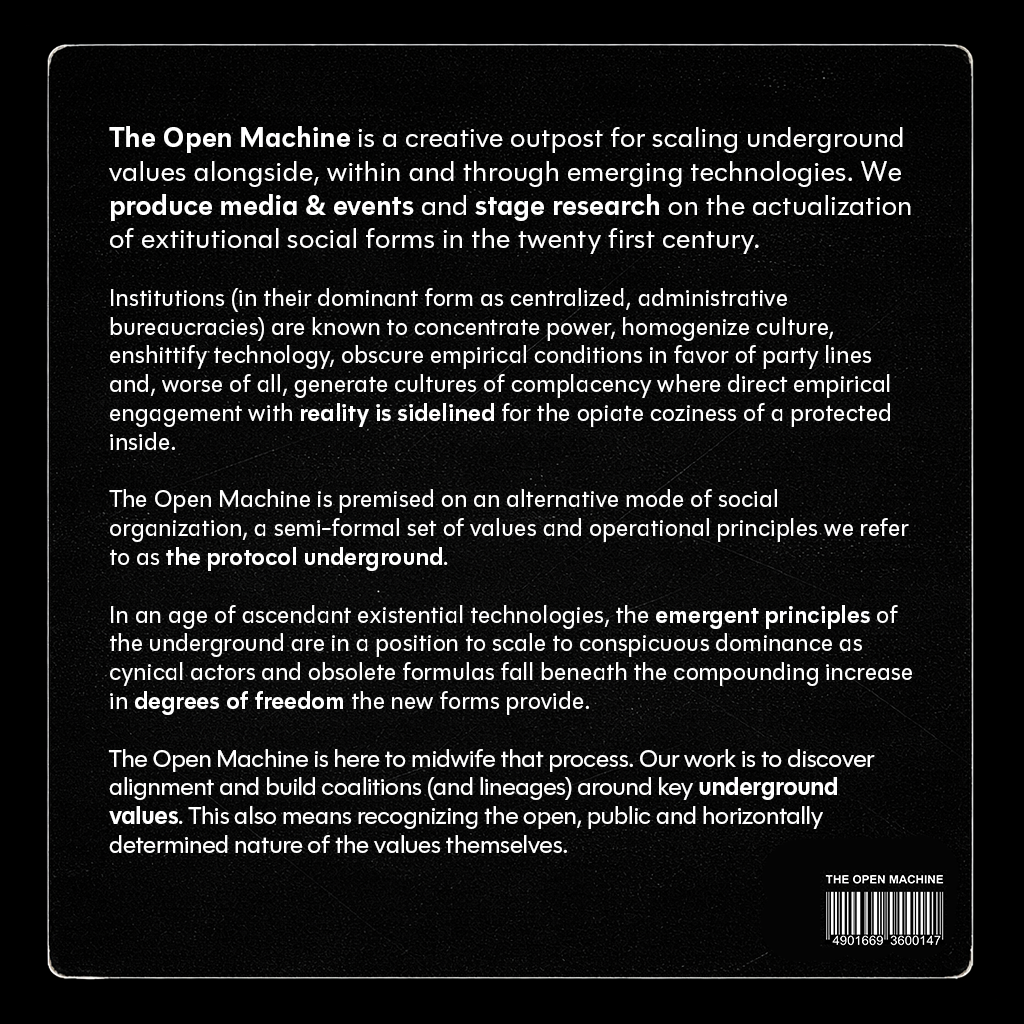
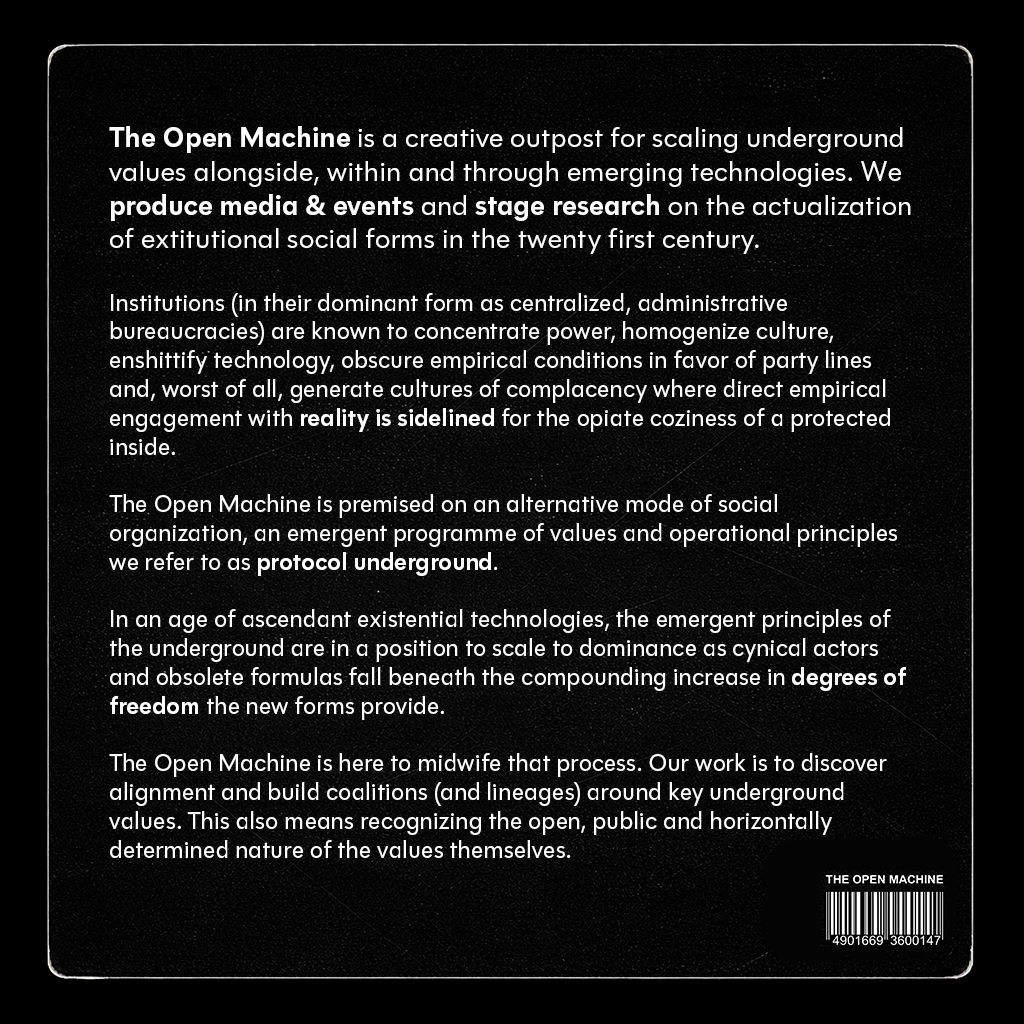
adjust albumBack and clean values

Changed region(s): [[0.0938, 0.2812, 0.875, 0.5625], [0.0938, 0.5938, 0.9062, 0.8438]]

diff --git a/src/pages/index.tsx b/src/pages/index.tsx
@@ -38,7 +38,7 @@ export default function Home() {
           <Heading color="primary" fontWeight="100" fontSize={['xl', null, '2xl']} mb={5}>What we do</Heading>
           <Text fontSize={['lg', null, '2xl']}>The Open Machine is a creative outpost for scaling underground values alongside, within and through emerging technologies. We produce media & events and stage research on the actualization of extitutional social forms in the twenty first century.</Text>
           <Text mt={5}>Institutions (in their dominant form as centralized, administrative bureaucracies) are known to concentrate power, homogenize culture, enshittify technology, obscure empirical conditions in favor of party lines and, worst of all, generate cultures of complacency where direct empirical engagement with reality is sidelined for the opiate coziness of a protected inside.</Text>
-          <Text mt={5}>The Open Machine is premised on an alternative mode of social organization, an emergent programme of values and operational principles we refer to as
+          <Text mt={5}>The Open Machine is premised on an alternative mode of social organization, an emergent programme of values and operational principles we refer to as{' '}
             <Tooltip
               label="This refers to a collective of actors with no shared identity or structure beyond the open protocols that synchronize them in acts of discovery and interparticipation. See 'Sketches for a Theory of the Protocol Underground' for the origins of this term."
               bg="primary"
@@ -51,7 +51,7 @@ export default function Home() {
               <Box as="span" cursor="help" textDecoration="underline" textDecorationStyle="dotted" textUnderlineOffset="5px" borderColor="primary">protocol underground</Box>
             </Tooltip>
           </Text>
-          <Text mt={5}>In an age of ascendant
+          <Text mt={5}>In an age of ascendant{' '}
             <Tooltip
               label="See Bogna Konior 'Existential Technologies' — existentialtech.antikythera.org"
               bg="primary"
@@ -335,7 +335,8 @@ export default function Home() {
         <Flex id="values" direction="row" alignItems="start" justifyContent="space-between" w="100%" p={10} flexWrap="wrap" borderTop="1px solid" borderColor="midtone">
           <Flex direction="column" alignItems="start" w={['100%', null, '33%']} justifyContent="space-between" mr={10}>
             <Heading color="primary" fontWeight="900" fontSize={'3xl'} mb={5}>Values</Heading>
-            <Text>Our engagement with the archive and ethnographic study of underground communities alerted us to five principles (or four key values + one major operational principle) that animate the underground. They are as follows:</Text>
+            <Text>Our engagement with the archive and ethnographic study of underground communities alerted us to five principles (or four key values + one major operational principle) that animate the underground.</Text>
+            <Text mt={3} w="100%" fontSize="md">The underground is a recessive organism, resisting formalization or categorization even as it generates abundant protocols that depend on both of those tactics to persist. We generate this formal account not in order to enclose the underground, but because we our confident in our position that it cannot be enclosed.</Text>
           </Flex>
           <Flex direction="row" alignItems="stretch" justifyContent="space-between" w={["full", null, "60%"]} flexWrap="wrap" mt={[5, null, 0]}>
             <Box w={['100%', null, '50%']} p={[2, null, 3]} display="flex">
@@ -372,14 +373,13 @@ export default function Home() {
                 <Text fontSize="sm">Attention is directed toward unfolding, qualitative dynamics rather than quantitative, static outcomes. This means emphasis on intensive experience or "qualia" - affect, epiphany, synchronicity, the nondual, and most importantly the experience of dissolution into larger subjectivities.</Text>
               </Box>
             </Box>
-            <Box w={['100%', null, '50%']} p={[2, null, 3]} display="flex">
+            <Box w={['100%', null, '100%']} p={[2, null, 3]} display="flex">
               <Box border="1px solid" borderColor="primary" p={5} flex="1">
-                <Heading fontSize={['md', null, 'lg']} mb={5}>Open Protocolized</Heading>
+                <Heading fontSize={['md', null, 'lg']} mb={5}>+ Open Protocolized</Heading>
                 <Text fontSize="sm">Practices crystallize into reusable patterns through a kind of natural selection in the "cold exterior" of the extitutional realm. Weathered by the exterior, open protocols develop an acute, open empiricism, manifested as (a) availability to appropriation, forking, recombination to whatever material , aesthetic or epistemic ends, (b) resistance to and avoidance of any system that compromises (a), and (c) compact and compelling enough form to facilitate free & open circulation.</Text>
               </Box>
             </Box>
           </Flex>
-          <Text mt={8} w="100%" fontSize="md">The underground is a recessive organism, resisting formalization or categorization even as it generates abundant protocols that depend on both of those tactics to persist. We generate this formal account not in order to enclose the underground, but because we our confident in our position that it cannot be enclosed.</Text>
         </Flex>
 
         {/* <Flex direction="row" alignItems="start" justifyContent="space-between" w="100%" p={10} flexWrap="wrap" borderTop="1px solid" borderColor="primary">
